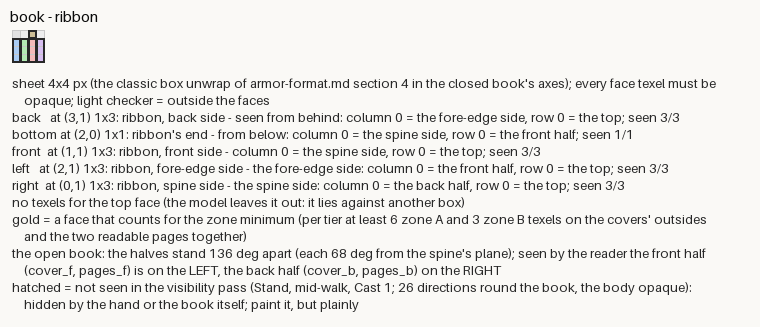
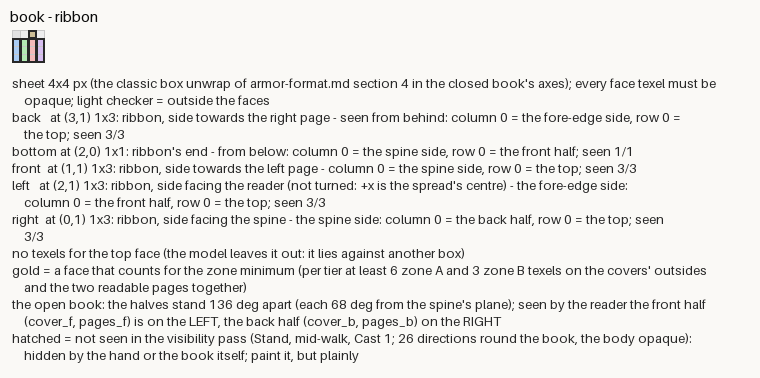
R55 VIEWER review fixes: partial tiers.json, README sizes, front-only rim texels
render.py fills a tier or item tiers.json leaves out with a default and shows
it as a checker, listed "no tiers.json entry" (was a KeyError); the test
covers it and holds the README's painter table to the atlas sizes (the spine
is 4 x 7); the --back example points outside art/; the shield template
darkens only the front's border texels; the ribbon's side labels follow its
unturned frame; templates.py refuses to replace a directory with other files.

Changed region(s): [[0.0, 0.0306, 0.9382, 0.9786]]

diff --git a/tools/r55_offhand/test_render.py b/tools/r55_offhand/test_render.py
@@ -11,8 +11,12 @@ tier colour (so the F and B glyphs read unmirrored); on the character the
 shield's front shows from the character's left; the cloak card shows when a
 cloak is worn, the body card when none is, and the body card hides under a
 cloak; a cloak wing shows its wing texture's texel; missing art is a checker
-and listed; a render is deterministic; a whole sheet renders.
+and listed; a tiers.json without some tiers or an item renders those as a
+checker, listed; a render is deterministic; a whole sheet renders; the
+README's painter table gives the live sheet sizes.
 """
+import json
+import re
 import shutil
 import sys
 import tempfile
@@ -212,6 +216,44 @@ def test_missing_and_sheets():
         ok(p.exists(), "detail sheet")
 
 
+def test_partial_tiers():
+    """Only shield T1 in tiers.json: every other tier and the whole book are a checker, listed."""
+    with tempfile.TemporaryDirectory(prefix="r55-render-test-") as tmp:
+        art = Path(tmp) / "art"
+        shutil.copytree(ART, art)
+        tiers = json.loads((art / "tiers.json").read_text())
+        (art / "tiers.json").write_text(json.dumps({"shield": {"T1": tiers["shield"]["T1"]}}))
+        a = R.Art(art)
+        layer, _, missing = a.layer("shield", "T1")
+        ok(not missing, "partial tiers.json: shield T1 lists %s" % missing)
+        for item, tid in (("shield", "T4"), ("book", "T1"), ("book", "T6")):
+            layer, icon, missing = a.layer(item, tid)
+            ok(missing == ["no tiers.json entry"], "partial tiers.json: %s %s lists %s" % (item, tid, missing))
+            sid = "shield_%d" % O.tier_step(a.params, int(tid[1])) if item == "shield" else "cover_f"
+            x, y, _, _ = a.sheets[sid]["faces"]["front"]
+            ok(layer.getpixel((x, y)) in R.CHECK and icon.getpixel((0, 0)) in R.CHECK,
+               "partial tiers.json: %s %s not a checker" % (item, tid))
+            ok(a.label(item, tid)[0] == "(no tiers.json entry)", "partial tiers.json: %s %s label" % (item, tid))
+        out = Path(tmp) / "out"
+        out.mkdir()
+        for item in ("shield", "book"):
+            p, miss = R.contact_sheet(MODEL, a, R.Look(a, "human"), item, ["T1", "T2"], out)
+            ok(p.exists() and miss["T2"] == ["no tiers.json entry"], "partial tiers.json: %s sheet" % item)
+
+
+def test_readme_sizes():
+    """The painter's table in README.md names the live sheet sizes (it went stale once)."""
+    text = (TOOL / "README.md").read_text()
+
+    def row(start):
+        line = next((ln for ln in text.splitlines() if ln.startswith(start)), "")
+        return re.findall(r"(\d+) × (\d+)", line.rsplit("|", 2)[-2] if line.count("|") > 2 else "")
+    want = [tuple(str(v) for v in A.sheets["shield_0"]["rect"][2:])]
+    ok(row("| `art/shield/") == want, "README: shield size %s, the atlas %s" % (row("| `art/shield/"), want))
+    want = [tuple(str(v) for v in A.sheets[b]["rect"][2:]) for b in O.BOOK_BOXES]
+    ok(row("| `art/book/") == want, "README: book sizes %s, the atlas %s" % (row("| `art/book/"), want))
+
+
 def test_deterministic():
     layer, _, _ = A.layer("book", "T2")
     look = R.Look(A, "elf", cloak="test", back=str(R.DEFAULT_BACK))
@@ -222,7 +264,7 @@ def test_deterministic():
 
 def main():
     for t in (test_winding, test_layers_equal_bake, test_shield_alone, test_shield_on_character, test_back_cards,
-              test_wings, test_missing_and_sheets, test_deterministic):
+              test_wings, test_missing_and_sheets, test_partial_tiers, test_readme_sizes, test_deterministic):
         t()
     for f in FAILS:
         print("FAIL", f)

diff --git a/tools/r55_offhand/templates.py b/tools/r55_offhand/templates.py
@@ -98,8 +98,9 @@ def shield_template(model, params, atlas, out):
         tint = FACE_TINT["front" if side == "front" else "back"]
         opaque = O.shield_texels(shape, side)
         for cx, cy in opaque:
-            # a border texel (a neighbour outside the outline or the sheet): the rim samples it
-            border = any((cx + dx, cy + dy) not in opaque for dx, dy in ((1, 0), (-1, 0), (0, 1), (0, -1)))
+            # a front border texel (a neighbour outside the outline or the sheet): the rim samples it
+            border = side == "front" and any((cx + dx, cy + dy) not in opaque
+                                             for dx, dy in ((1, 0), (-1, 0), (0, 1), (0, -1)))
             cells[(x_off + cx, cy)] = darker(tint) if border else tint
             if (x_off + cx, cy) not in seen:
                 hatched.add((x_off + cx, cy))
@@ -143,9 +144,10 @@ def shield_template(model, params, atlas, out):
         "purple square = the boss's base (a %g px pyramid on the front, painted with the texels under it)"
         % (shape["ridge"], boss["height"] if boss else 0) if boss else
         "red line = the outline; blue dashes = the ridge (the front bulges %g px along it)" % shape["ridge"],
-        "tinted = must be OPAQUE (every texel the outline contains or crosses); darker = the border texels: the "
-        "rim (%g px thick) and the slanted edges sample them, so they colour the shield's edge too; light checker "
-        "= never sampled, leave transparent" % shape["thick"],
+        "tinted = must be OPAQUE (every texel the outline contains or crosses); darker = the FRONT's border "
+        "texels: the rim (%g px thick) and the slanted edges sample them, so they colour the shield's edge too "
+        "(the back's border is only seen from behind); light checker = never sampled, leave transparent"
+        % shape["thick"],
         "zones: at least 6 zone A and 3 zone B texels on the FRONT (the bake counts the front's opaque texels)",
         "hatched = not seen on any size copy in the visibility pass (Stand, mid-walk, Block; 26 directions): hidden "
         "by the arm or the shield itself; paint it, but plainly",
@@ -184,10 +186,10 @@ BOOK_MEANING = {
     ("spine", "back"): ("spine's side beside the back cover's spine edge", "b"),
     ("spine", "top"): ("head of the spine (top end)", "T"),
     ("spine", "bottom"): ("tail of the spine (bottom end)", "Bt"),
-    ("ribbon", "front"): ("ribbon, front side", "F"),
-    ("ribbon", "back"): ("ribbon, back side", "B"),
-    ("ribbon", "left"): ("ribbon, fore-edge side", "L"),
-    ("ribbon", "right"): ("ribbon, spine side", "R"),
+    ("ribbon", "front"): ("ribbon, side towards the left page", "F"),
+    ("ribbon", "back"): ("ribbon, side towards the right page", "B"),
+    ("ribbon", "left"): ("ribbon, side facing the reader (not turned: +x is the spread's centre)", "L"),
+    ("ribbon", "right"): ("ribbon, side facing the spine", "R"),
     ("ribbon", "bottom"): ("ribbon's end", "Bt"),
 }
 # armor-format.md section 4 orientation in the book's closed frame (x = towards the
@@ -352,6 +354,9 @@ def cloak_template(params, out):
 # --- main -----------------------------------------------------------------------------
 def write(out):
     if out.exists():
+        other = [p for p in out.rglob("*") if p.is_file() and p.suffix != ".png"]
+        if other:
+            raise SystemExit("templates: %s holds other files (%s); refusing to replace it" % (out, other[0]))
         shutil.rmtree(out)
     (out / "blank").mkdir(parents=True)
     params, atlas, _ = B.load_contract()

diff --git a/tools/r55_offhand/render.py b/tools/r55_offhand/render.py
@@ -293,6 +293,10 @@ class Art:
                           for item, pals, sheets in (("shield", METAL_PALETTES, ("shield",)),
                                                      ("book", CLOTH_PALETTES, O.BOOK_BOXES))}
             self.tier_source = "DEFAULT selection (no art/tiers.json: variant a, the test art's palettes)"
+        for item, sheets in (("shield", ("shield",)), ("book", O.BOOK_BOXES)):
+            for tid in L.TIER_IDS:          # a tier tiers.json leaves out: a checker, listed
+                self.tiers.setdefault(item, {}).setdefault(tid, {
+                    "palette": None, "variant": {s: "a" for s in sheets}, "icon": None, "absent": True})
         warnings = []
         try:
             B.bake(self.art, icons=True, warnings=warnings)
@@ -317,9 +321,15 @@ class Art:
         built as bake.py builds it; a missing file, a wrong size and
         off-palette or partial-alpha texels show the checker."""
         tier = self.tiers[item][tid]
+        n = L.TIER_IDS.index(tid) + 1
+        if tier.get("absent"):
+            ids = ["shield_%d" % O.tier_step(self.params, n)] if item == "shield" else O.BOOK_BOXES
+            img = Image.new("RGBA", self.size, (0, 0, 0, 0))
+            checker_cells(img, {(x, y) for s in ids for fx, fy, fw, fh in self.sheets[s]["faces"].values()
+                                for y in range(fy, fy + fh) for x in range(fx, fx + fw)})
+            return img, L.checker(O.ICON_SIZE, cell=4), ["no tiers.json entry"]
         colors = self.colors(tier["palette"])
         missing = [] if tier["palette"] in self.pals["palettes"] else ["palette %s unknown" % tier["palette"]]
-        n = L.TIER_IDS.index(tid) + 1
         if item == "shield":
             pieces = [("shield_%d" % O.tier_step(self.params, n), "shield_0",
                        B.shield_file(self.art, tier["variant"]["shield"]))]
@@ -363,7 +373,8 @@ class Art:
         tier = self.tiers[item][tid]
         variants = sorted(set(tier["variant"].values()))
         v = variants[0] if len(variants) == 1 else ", ".join("%s %s" % kv for kv in sorted(tier["variant"].items()))
-        lines = ["palette %s" % tier["palette"], "variant %s, icon %s" % (v, tier["icon"])]
+        lines = (["(no tiers.json entry)"] if tier.get("absent") else
+                 ["palette %s" % tier["palette"], "variant %s, icon %s" % (v, tier["icon"])])
         if item == "shield":
             n = L.TIER_IDS.index(tid) + 1
             step = O.tier_step(self.params, n)

diff --git a/tools/r55_offhand/README.md b/tools/r55_offhand/README.md
@@ -30,7 +30,7 @@ from the repository root (the tools find their own data). The full rules are
 | File | What | Size now |
 |---|---|---|
 | `art/shield/<variant>.png` | the shield: FRONT in the left half, BACK in the right half | 22 × 13 |
-| `art/book/<box>_<variant>.png` | one sheet per book box: `cover_f`, `cover_b`, `pages_f`, `pages_b`, `spine`, `ribbon` | 12 × 7, 12 × 7, 10 × 6, 10 × 6, 8 × 9, 4 × 4 |
+| `art/book/<box>_<variant>.png` | one sheet per book box: `cover_f`, `cover_b`, `pages_f`, `pages_b`, `spine`, `ribbon` | 12 × 7, 12 × 7, 10 × 6, 10 × 6, 4 × 7, 4 × 4 |
 | `art/icons/shield_<variant>.png`, `art/icons/book_<variant>.png` | inventory icons | 16 × 16 |
 | `art/tiers.json` | per item and tier T1–T6: `palette`, `variant` (one id, or for the book a map box → id), `icon` | |
 | `art/palettes.json` (optional) | proposed tier palettes, laid over `tools/r54_armor/data/palettes.json` by name | |
@@ -65,7 +65,7 @@ python3 tools/r55_offhand/bake.py --art art --out out/bake --icons-out out/bake 
 python3 tools/r55_offhand/render.py --art art --out out              # all sheets: shield, book, cloak (about 2 s)
 python3 tools/r55_offhand/render.py --art art --item shield --tiers T5 --detail --out out   # one tier large
 python3 tools/r55_offhand/render.py --art art --item book --race troll --armor cloth:T4 --out out
-python3 tools/r55_offhand/render.py --art art --item shield --cloak supporter --back art/bow.png --out out
+python3 tools/r55_offhand/render.py --art art --item shield --cloak supporter --back mods/ITEMS/grug_gear/textures/grug_gear_bow_wood.png --out out
 ```
 
 Options: `--item shield|book|cloak|all`, `--tiers T1,T3`, `--race human,dwarf,elf,orc,troll,undead` (the
